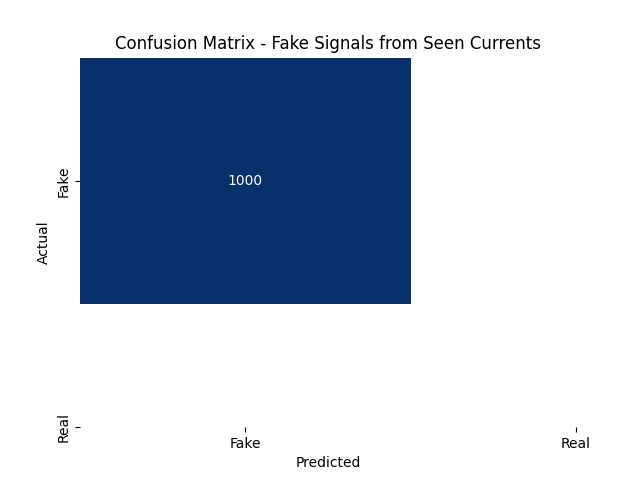
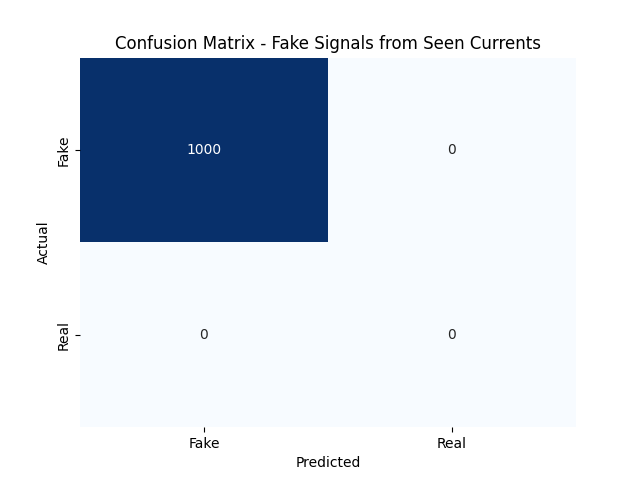
Updated validation code to generate better confusion matrix and display empty cells

diff --git a/validation.py b/validation.py
@@ -269,30 +269,10 @@ X7 = X7[:-1000]
 real_seen_dev_cut_labels_v5 = Y7[-1000:]
 Y7 = Y7[:-1000]
 
-# Generate confusion matrices for each individual set of validation data for mutliple currents version (v6)
-# Generate predictions for each test set
-preds_real_v6 = extra_validation_preds(model_v6, real_seen_dev_cut_data_v6)
-preds_fake_seen_v6 = extra_validation_preds(model_v6, fake_seen_dev_cut_data_v6)
-preds_fake_unseen_v6 = extra_validation_preds(model_v6, fake_unseen_dev_cut_data_v6)
-
-# True labels for the test sets
-labels_real_v6 = real_seen_dev_cut_labels_v6  # Real unseen signals (should be 1s)
-labels_fake_seen_v6 = fake_seen_dev_cut_labels_v6  # Fake signals from a seen device (should be 0s)
-labels_fake_unseen_v6 = fake_unseen_dev_cut_labels_v6  # Fake signals from an unseen device (should be 0s)
-
-# Generate confusion matrix for each set
-# Define the mapping from numeric labels to string labels and the numeric labels actually returned by the model
-label_mapping = {0: 'Fake', 1: 'Real'}
-labels = [0, 1]
-labels_str = [label_mapping[label] for label in labels]
-
-cm_real = confusion_matrix(labels_real_v6, preds_real_v6, labels=labels)
-cm_fake_seen = confusion_matrix(labels_fake_seen_v6, preds_fake_seen_v6, labels=labels)
-cm_fake_unseen = confusion_matrix(labels_fake_unseen_v6, preds_fake_unseen_v6, labels=labels)
-
-# Plot the confusion matrices
+# Prepare to start generating confusion matrices
+# Method to plot the confusion matrices
 def plot_confusion_matrix(cm, title, filename, save_dir):
-    plt.figure()
+    plt.figure(figsize=(8, 6))
     
     # Define vmax and vmin for the color scale of the confusion matrix
     vmin = 0
@@ -320,10 +300,30 @@ def plot_confusion_matrix(cm, title, filename, save_dir):
 # Define the directory where the PNGs will be saved
 save_directory = 'figures/confusion_matrices'
 
+# Define the mapping from numeric labels to string labels and the numeric labels actually returned by the model
+label_mapping = {0: 'Fake', 1: 'Real'}
+labels = [0, 1]
+labels_str = [label_mapping[label] for label in labels]
+
+# Generate confusion matrices for each individual set of validation data for mutliple currents version (v6)
+# Generate predictions for each test set
+preds_real_v6 = extra_validation_preds(model_v6, real_seen_dev_cut_data_v6)
+preds_fake_seen_v6 = extra_validation_preds(model_v6, fake_seen_dev_cut_data_v6)
+preds_fake_unseen_v6 = extra_validation_preds(model_v6, fake_unseen_dev_cut_data_v6)
+
+# True labels for the test sets
+labels_real_v6 = real_seen_dev_cut_labels_v6  # Real unseen signals (should be 1s)
+labels_fake_seen_v6 = fake_seen_dev_cut_labels_v6  # Fake signals from a seen device (should be 0s)
+labels_fake_unseen_v6 = fake_unseen_dev_cut_labels_v6  # Fake signals from an unseen device (should be 0s)
+
+cm_real_v6 = confusion_matrix(labels_real_v6, preds_real_v6, labels=labels)
+cm_fake_seen_v6 = confusion_matrix(labels_fake_seen_v6, preds_fake_seen_v6, labels=labels)
+cm_fake_unseen_v6 = confusion_matrix(labels_fake_unseen_v6, preds_fake_unseen_v6, labels=labels)
+
 # Plotting and saving the confusion matrices
-plot_confusion_matrix(cm_real, "Confusion Matrix - Real Signals", "cm_real_current_v6.png", save_directory)
-plot_confusion_matrix(cm_fake_seen, "Confusion Matrix - Fake Signals from Seen Currents", "cm_fake_seen_currents_v6.png", save_directory)
-plot_confusion_matrix(cm_fake_unseen, "Confusion Matrix - Fake Signals from Unseen Currents", "cm_fake_unseen_currents_v6.png", save_directory)
+plot_confusion_matrix(cm_real_v6, "Confusion Matrix - Real Signals", "cm_real_current_v6.png", save_directory)
+plot_confusion_matrix(cm_fake_seen_v6, "Confusion Matrix - Fake Signals from Seen Currents", "cm_fake_seen_currents_v6.png", save_directory)
+plot_confusion_matrix(cm_fake_unseen_v6, "Confusion Matrix - Fake Signals from Unseen Currents", "cm_fake_unseen_currents_v6.png", save_directory)
 
 # Generate confusion matrices for each individual set of validation data for single current version (v5)
 # Generate predictions for each test set
@@ -337,9 +337,9 @@ labels_fake_seen_v5 = fake_seen_dev_cut_labels_v5  # Fake signals from a seen de
 labels_fake_unseen_v5 = fake_unseen_dev_cut_labels_v5  # Fake signals from an unseen device (should be 0s)
 
 # Generate confusion matrix for each set
-cm_real_v5 = confusion_matrix(labels_real_v5, preds_real_v5)
-cm_fake_seen_v5 = confusion_matrix(labels_fake_seen_v5, preds_fake_seen_v5)
-cm_fake_unseen_v5 = confusion_matrix(labels_fake_unseen_v5, preds_fake_unseen_v5)
+cm_real_v5 = confusion_matrix(labels_real_v5, preds_real_v5, labels=labels)
+cm_fake_seen_v5 = confusion_matrix(labels_fake_seen_v5, preds_fake_seen_v5, labels=labels)
+cm_fake_unseen_v5 = confusion_matrix(labels_fake_unseen_v5, preds_fake_unseen_v5, labels=labels)
 
 # Plotting and saving the confusion matrices
 plot_confusion_matrix(cm_real_v5, "Confusion Matrix - Real Signals", "cm_real_device_v5.png", save_directory)
